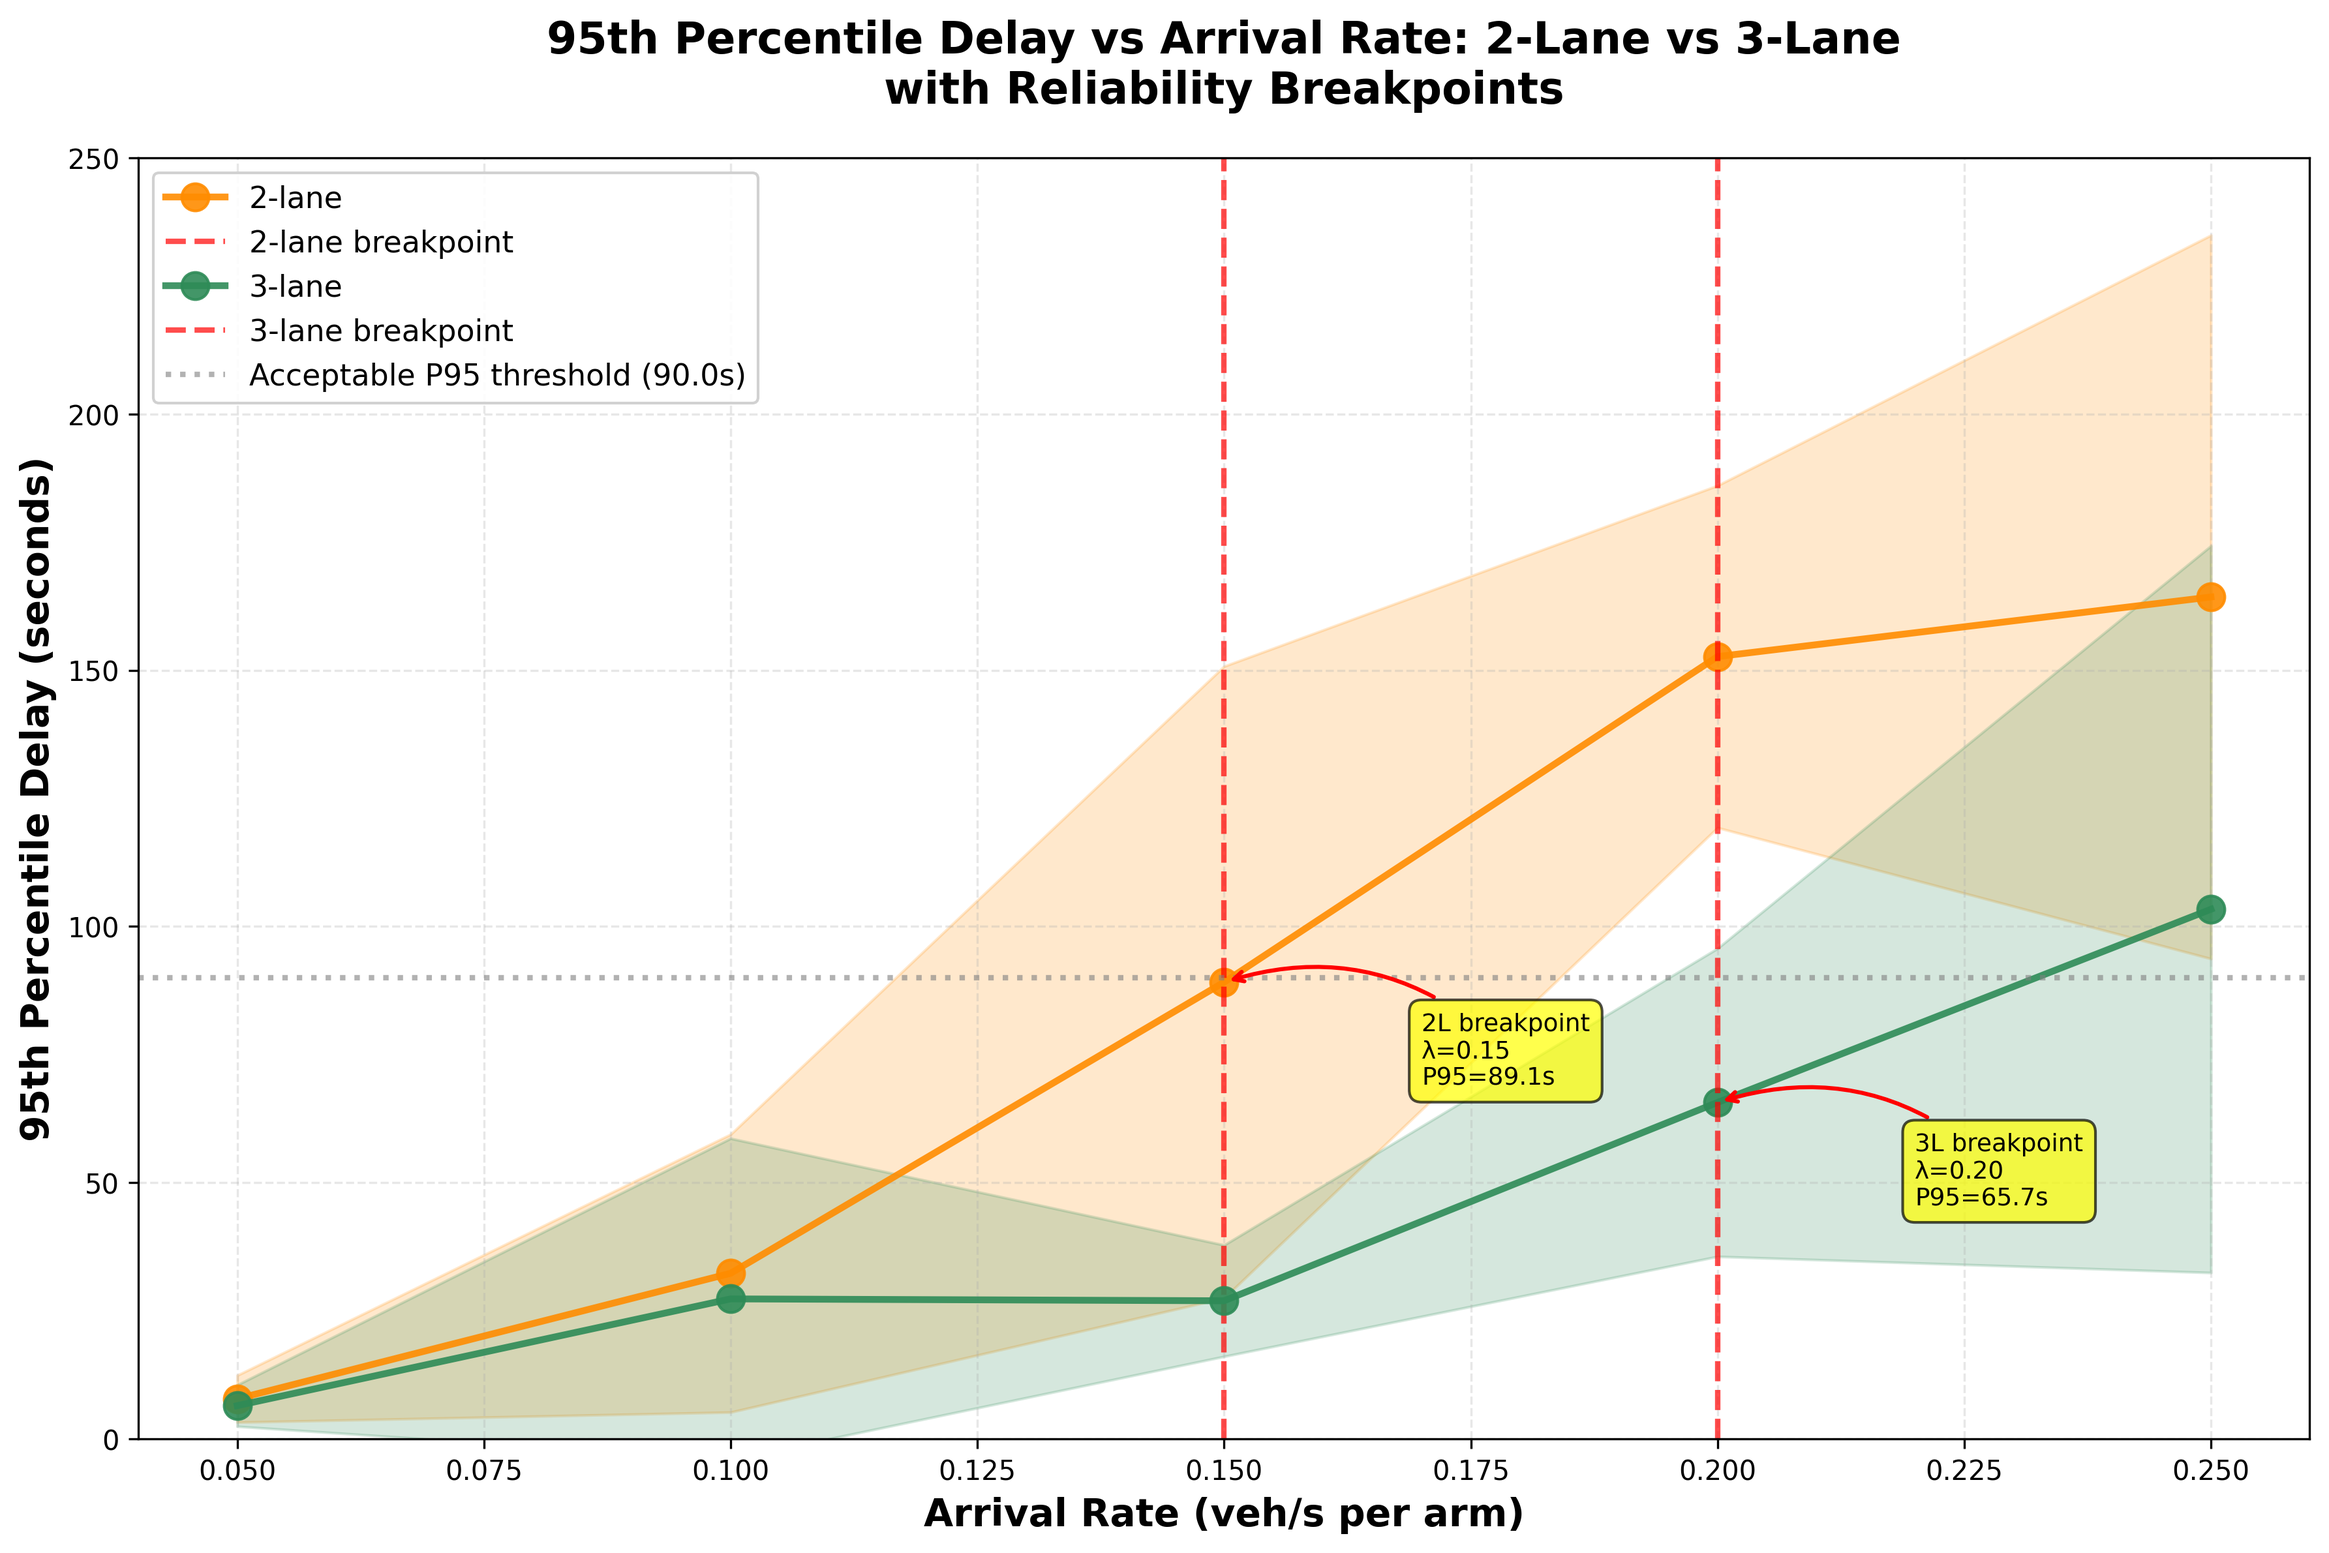
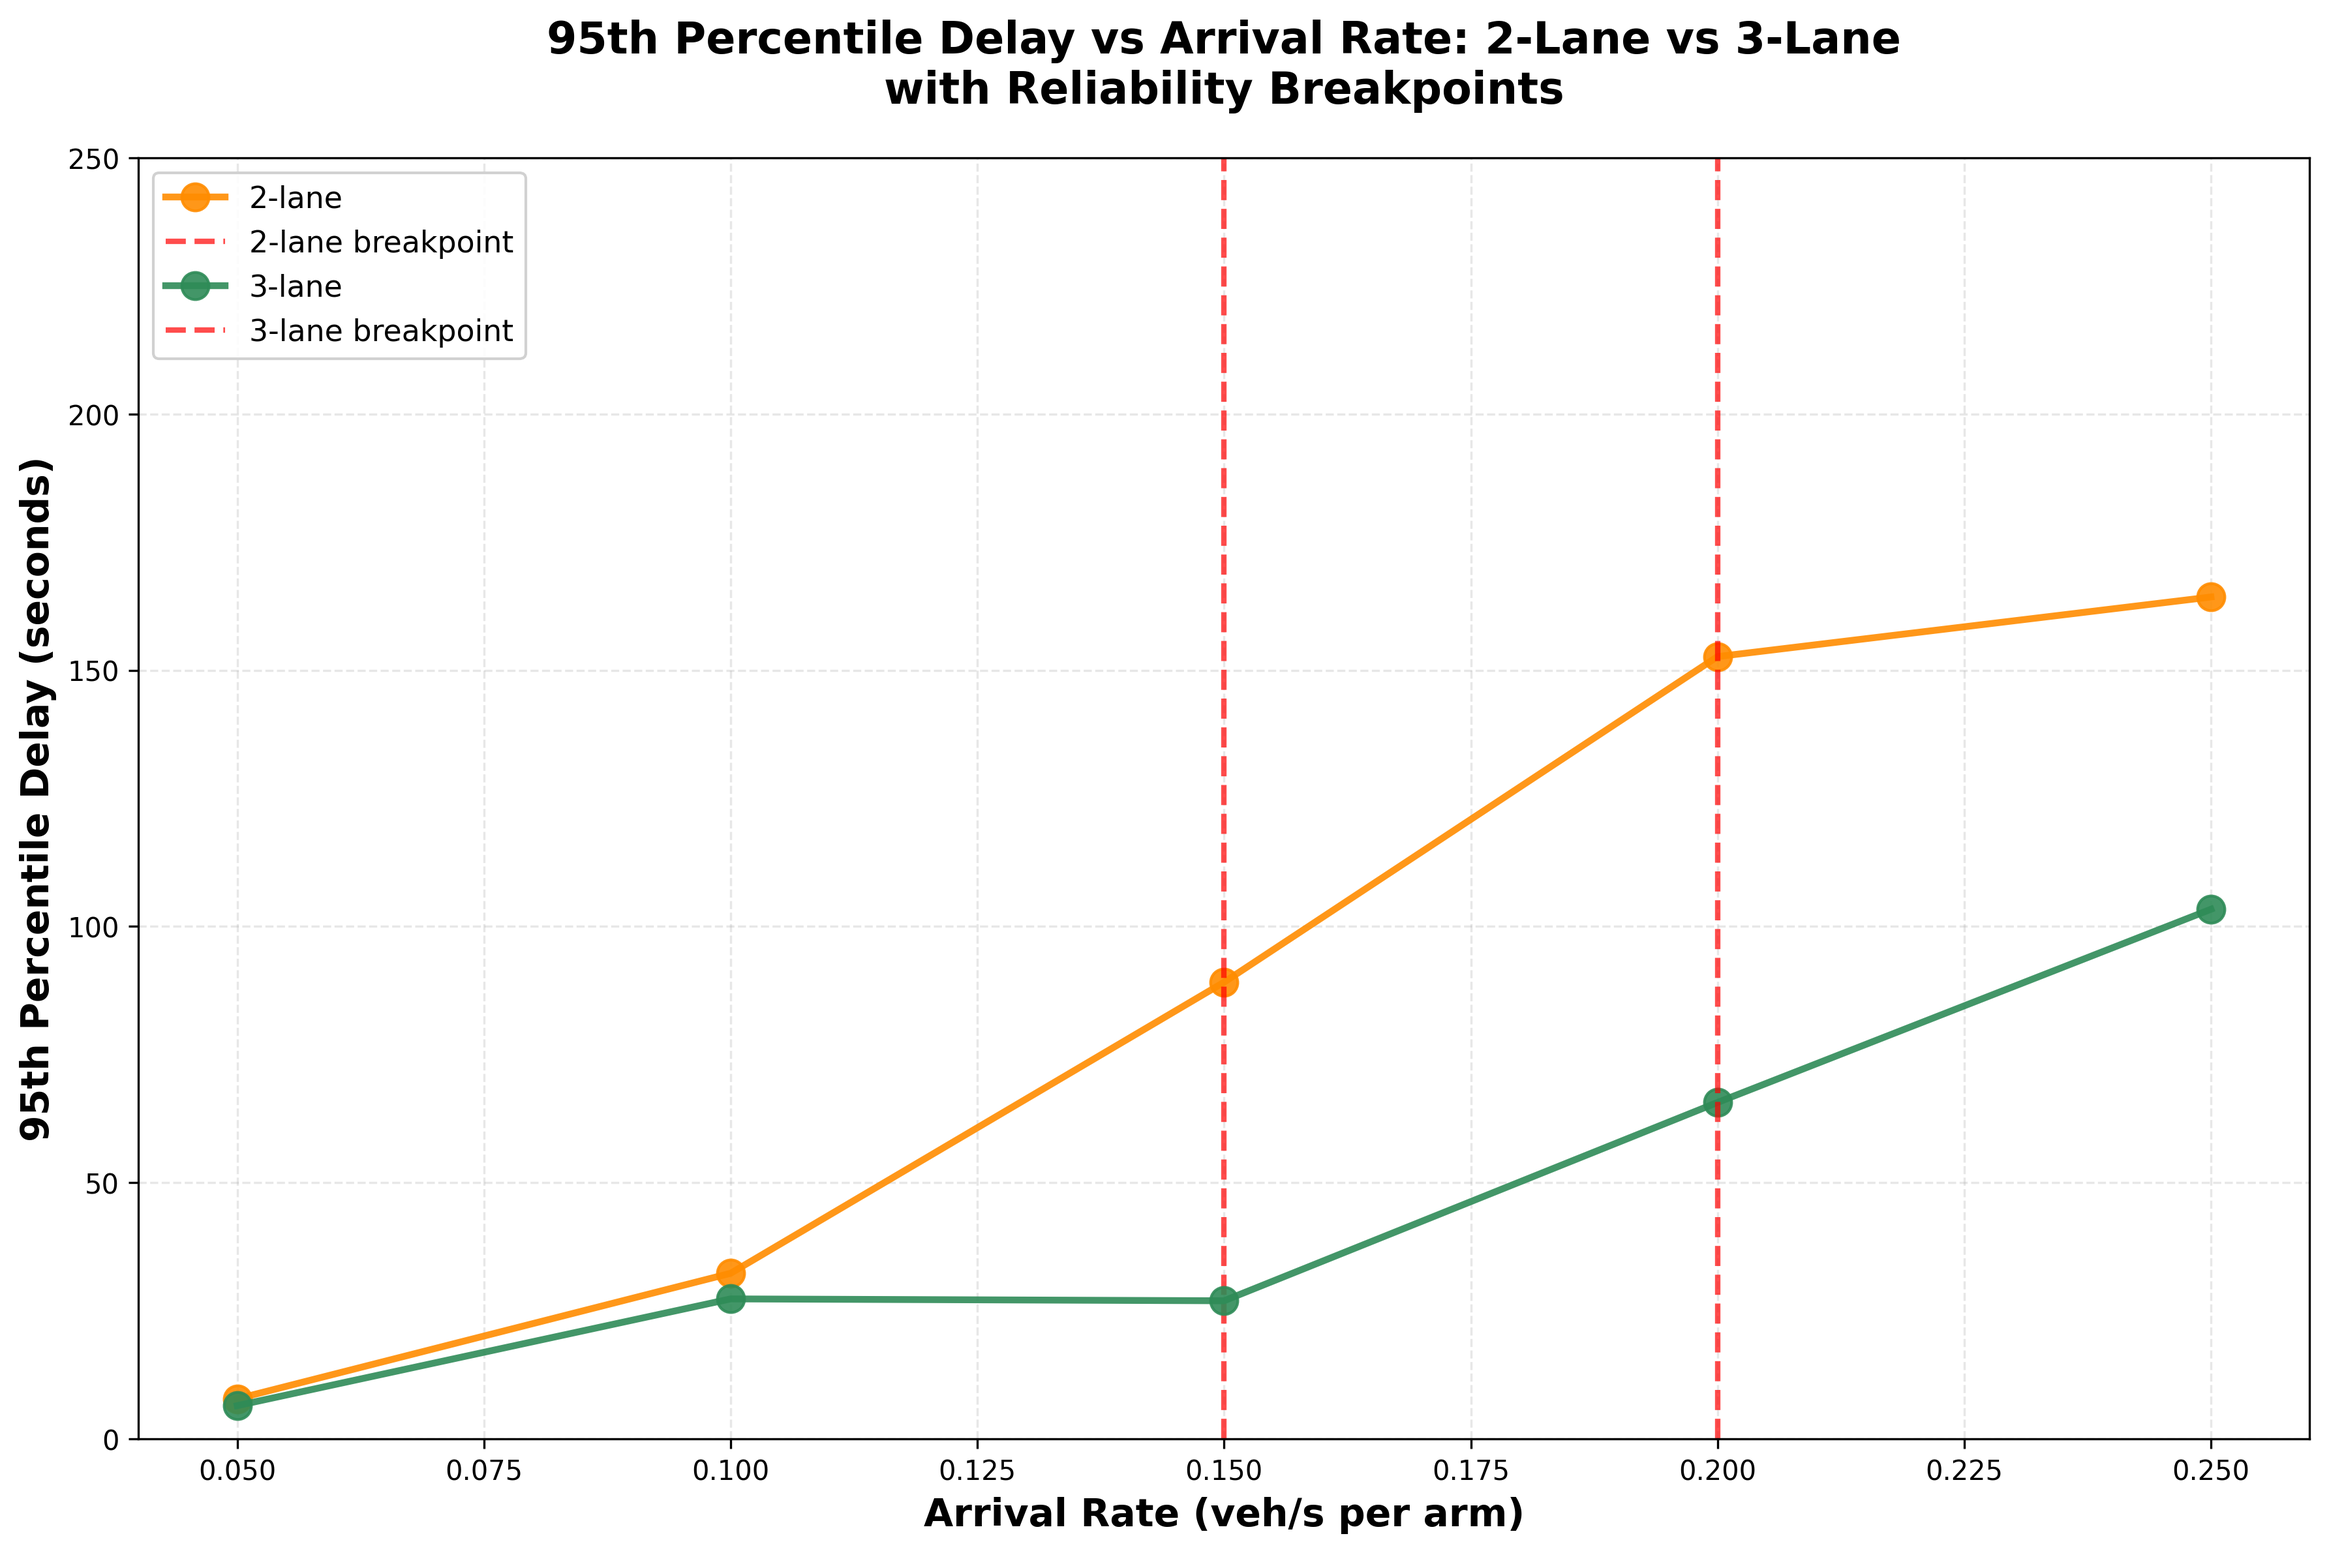
Updated plots

diff --git a/generate_enhanced_roundabout_graphs.py b/generate_enhanced_roundabout_graphs.py
@@ -162,46 +162,22 @@ class EnhancedRoundaboutGraphGenerator:
             
             # Group by arrival rate and average across diameters
             grouped = lane_data.groupby('arrival_rate').agg({
-                'throughput': ['mean', 'std']
+                'throughput': 'mean'
             }).reset_index()
             
             x = grouped['arrival_rate'].values
-            y_mean = grouped['throughput']['mean'].values
-            y_std = grouped['throughput']['std'].values
+            y_mean = grouped['throughput'].values
             
             # Plot line
             label = f'{lanes}-lane'
             ax.plot(x, y_mean, 'o-', linewidth=2.5, markersize=10, 
                    color=self.COLORS[label], label=label, alpha=0.9)
             
-            # Add error bars (standard deviation)
-            ax.fill_between(x, y_mean - y_std, y_mean + y_std, 
-                           color=self.COLORS[label], alpha=0.2)
-            
             # Add breakpoint line
             bp = breakpoints[lanes]['arrival_rate']
             if bp:
                 ax.axvline(bp, label=f'{lanes}-lane breakpoint',
                           **self.BREAKPOINT_STYLE)
-                
-                # Add annotation
-                bp_data = breakpoints[lanes]['data']
-                bp_throughput = bp_data[bp_data['arrival_rate'] == bp]['throughput'].iloc[0]
-                ax.annotate(
-                    f'{lanes}L breakpoint\nλ={bp:.2f}\n{bp_throughput:.0f} veh/hr',
-                    xy=(bp, bp_throughput),
-                    xytext=(bp + 0.02, bp_throughput + 200),
-                    fontsize=9,
-                    bbox=dict(boxstyle='round,pad=0.5', facecolor='yellow', alpha=0.7),
-                    arrowprops=dict(arrowstyle='->', connectionstyle='arc3,rad=0.3',
-                                   color='red', lw=1.5)
-                )
-        
-        # Add ideal demand line (100% efficiency)
-        arrival_range = np.linspace(0.05, 0.25, 100)
-        ideal_throughput = arrival_range * 4 * 3600
-        ax.plot(arrival_range, ideal_throughput, 'k--', linewidth=1.5, 
-               alpha=0.4, label='Ideal (100% efficiency)')
         
         ax.set_xlabel('Arrival Rate (veh/s per arm)', fontsize=14, fontweight='bold')
         ax.set_ylabel('Throughput (veh/hr)', fontsize=14, fontweight='bold')
@@ -227,45 +203,22 @@ class EnhancedRoundaboutGraphGenerator:
             
             # Group by arrival rate
             grouped = lane_data.groupby('arrival_rate').agg({
-                'avg_delay': ['mean', 'std']
+                'avg_delay': 'mean'
             }).reset_index()
             
             x = grouped['arrival_rate'].values
-            y_mean = grouped['avg_delay']['mean'].values
-            y_std = grouped['avg_delay']['std'].values
+            y_mean = grouped['avg_delay'].values
             
             # Plot line
             label = f'{lanes}-lane'
             ax.plot(x, y_mean, 'o-', linewidth=2.5, markersize=10,
                    color=self.COLORS[label], label=label, alpha=0.9)
             
-            # Add error bars
-            ax.fill_between(x, y_mean - y_std, y_mean + y_std,
-                           color=self.COLORS[label], alpha=0.2)
-            
             # Add breakpoint line
             bp = breakpoints[lanes]['arrival_rate']
             if bp:
                 ax.axvline(bp, label=f'{lanes}-lane breakpoint',
                           **self.BREAKPOINT_STYLE)
-                
-                # Add annotation
-                bp_data = breakpoints[lanes]['data']
-                bp_delay = bp_data[bp_data['arrival_rate'] == bp]['avg_delay'].iloc[0]
-                ax.annotate(
-                    f'{lanes}L breakpoint\nλ={bp:.2f}\ndelay={bp_delay:.1f}s',
-                    xy=(bp, bp_delay),
-                    xytext=(bp - 0.03, bp_delay + 5),
-                    fontsize=9,
-                    bbox=dict(boxstyle='round,pad=0.5', facecolor='yellow', alpha=0.7),
-                    arrowprops=dict(arrowstyle='->', connectionstyle='arc3,rad=-0.3',
-                                   color='red', lw=1.5)
-                )
-        
-        # Add acceptable delay threshold line
-        ax.axhline(self.THRESHOLDS['avg_delay_acceptable'], 
-                  color='gray', linestyle=':', linewidth=2, alpha=0.6,
-                  label=f"Acceptable delay threshold ({self.THRESHOLDS['avg_delay_acceptable']}s)")
         
         ax.set_xlabel('Arrival Rate (veh/s per arm)', fontsize=14, fontweight='bold')
         ax.set_ylabel('Average Delay (seconds)', fontsize=14, fontweight='bold')
@@ -291,45 +244,22 @@ class EnhancedRoundaboutGraphGenerator:
             
             # Group by arrival rate
             grouped = lane_data.groupby('arrival_rate').agg({
-                'p95_delay': ['mean', 'std']
+                'p95_delay': 'mean'
             }).reset_index()
             
             x = grouped['arrival_rate'].values
-            y_mean = grouped['p95_delay']['mean'].values
-            y_std = grouped['p95_delay']['std'].values
+            y_mean = grouped['p95_delay'].values
             
             # Plot line
             label = f'{lanes}-lane'
             ax.plot(x, y_mean, 'o-', linewidth=2.5, markersize=10,
                    color=self.COLORS[label], label=label, alpha=0.9)
             
-            # Add error bars
-            ax.fill_between(x, y_mean - y_std, y_mean + y_std,
-                           color=self.COLORS[label], alpha=0.2)
-            
             # Add breakpoint line
             bp = breakpoints[lanes]['arrival_rate']
             if bp:
                 ax.axvline(bp, label=f'{lanes}-lane breakpoint',
                           **self.BREAKPOINT_STYLE)
-                
-                # Add annotation
-                bp_data = breakpoints[lanes]['data']
-                bp_p95 = bp_data[bp_data['arrival_rate'] == bp]['p95_delay'].iloc[0]
-                ax.annotate(
-                    f'{lanes}L breakpoint\nλ={bp:.2f}\nP95={bp_p95:.1f}s',
-                    xy=(bp, bp_p95),
-                    xytext=(bp + 0.02, bp_p95 - 20),
-                    fontsize=9,
-                    bbox=dict(boxstyle='round,pad=0.5', facecolor='yellow', alpha=0.7),
-                    arrowprops=dict(arrowstyle='->', connectionstyle='arc3,rad=0.3',
-                                   color='red', lw=1.5)
-                )
-        
-        # Add acceptable P95 delay threshold
-        ax.axhline(self.THRESHOLDS['p95_delay_acceptable'],
-                  color='gray', linestyle=':', linewidth=2, alpha=0.6,
-                  label=f"Acceptable P95 threshold ({self.THRESHOLDS['p95_delay_acceptable']}s)")
         
         ax.set_xlabel('Arrival Rate (veh/s per arm)', fontsize=14, fontweight='bold')
         ax.set_ylabel('95th Percentile Delay (seconds)', fontsize=14, fontweight='bold')
@@ -355,46 +285,22 @@ class EnhancedRoundaboutGraphGenerator:
             
             # Group by arrival rate
             grouped = lane_data.groupby('arrival_rate').agg({
-                'max_queue': ['mean', 'std']
+                'max_queue': 'mean'
             }).reset_index()
             
             x = grouped['arrival_rate'].values
-            y_mean = grouped['max_queue']['mean'].values
-            y_std = grouped['max_queue']['std'].values
+            y_mean = grouped['max_queue'].values
             
             # Plot line
             label = f'{lanes}-lane'
             ax.plot(x, y_mean, 'o-', linewidth=2.5, markersize=10,
                    color=self.COLORS[label], label=label, alpha=0.9)
             
-            # Add error bars
-            ax.fill_between(x, y_mean - y_std, y_mean + y_std,
-                           color=self.COLORS[label], alpha=0.2)
-            
             # Add breakpoint line
             bp = breakpoints[lanes]['arrival_rate']
             if bp:
                 ax.axvline(bp, label=f'{lanes}-lane breakpoint',
                           **self.BREAKPOINT_STYLE)
-                
-                # Add annotation
-                bp_data = breakpoints[lanes]['data']
-                bp_queue = bp_data[bp_data['arrival_rate'] == bp]['max_queue'].iloc[0]
-                queue_length_m = bp_queue * 5  # 5m per vehicle
-                ax.annotate(
-                    f'{lanes}L breakpoint\nλ={bp:.2f}\nqueue={bp_queue:.0f} veh\n({queue_length_m:.0f}m)',
-                    xy=(bp, bp_queue),
-                    xytext=(bp - 0.04, bp_queue + 15),
-                    fontsize=9,
-                    bbox=dict(boxstyle='round,pad=0.5', facecolor='yellow', alpha=0.7),
-                    arrowprops=dict(arrowstyle='->', connectionstyle='arc3,rad=-0.3',
-                                   color='red', lw=1.5)
-                )
-        
-        # Add acceptable queue threshold
-        ax.axhline(self.THRESHOLDS['max_queue_acceptable'],
-                  color='gray', linestyle=':', linewidth=2, alpha=0.6,
-                  label=f"Storage capacity limit ({self.THRESHOLDS['max_queue_acceptable']} veh)")
         
         ax.set_xlabel('Arrival Rate (veh/s per arm)', fontsize=14, fontweight='bold')
         ax.set_ylabel('Maximum Queue Length (vehicles)', fontsize=14, fontweight='bold')
